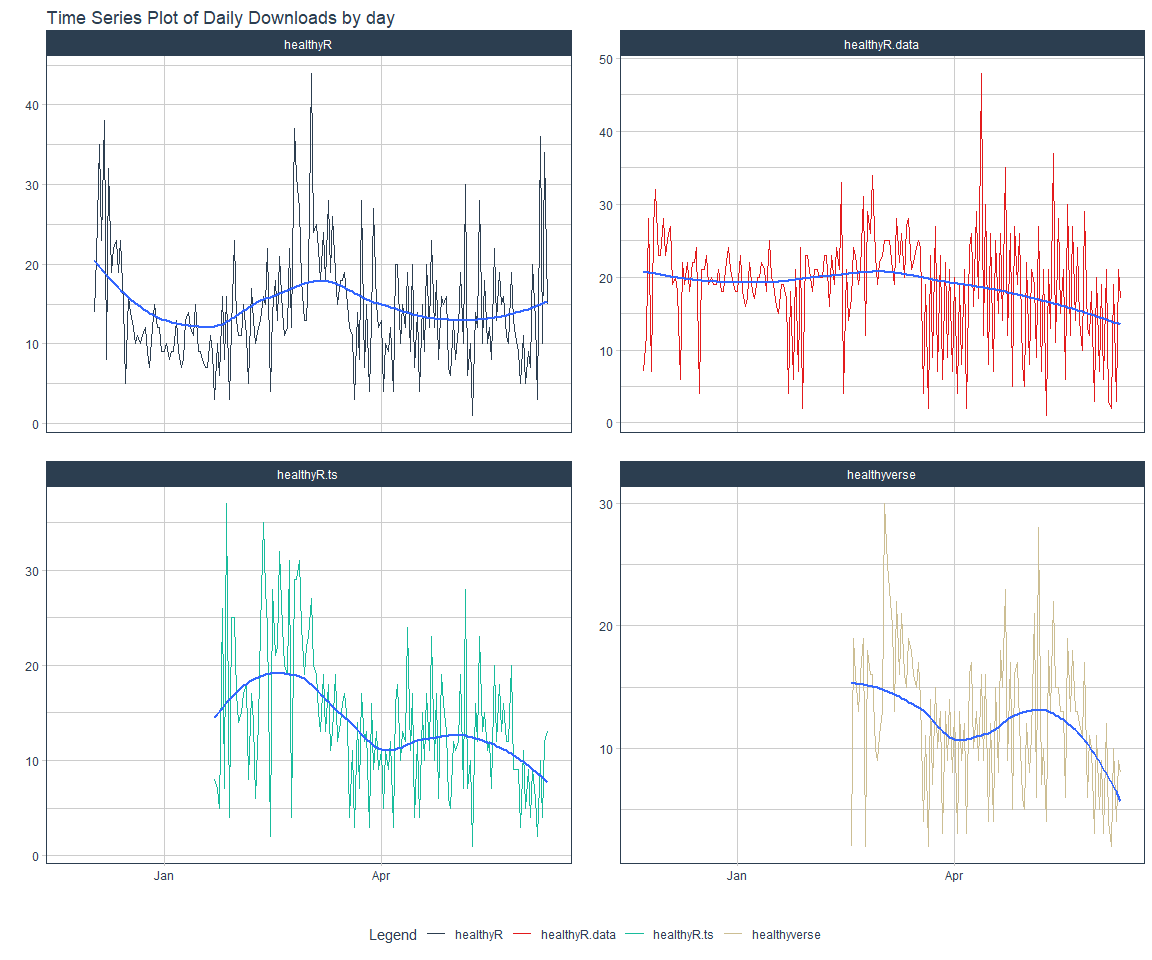
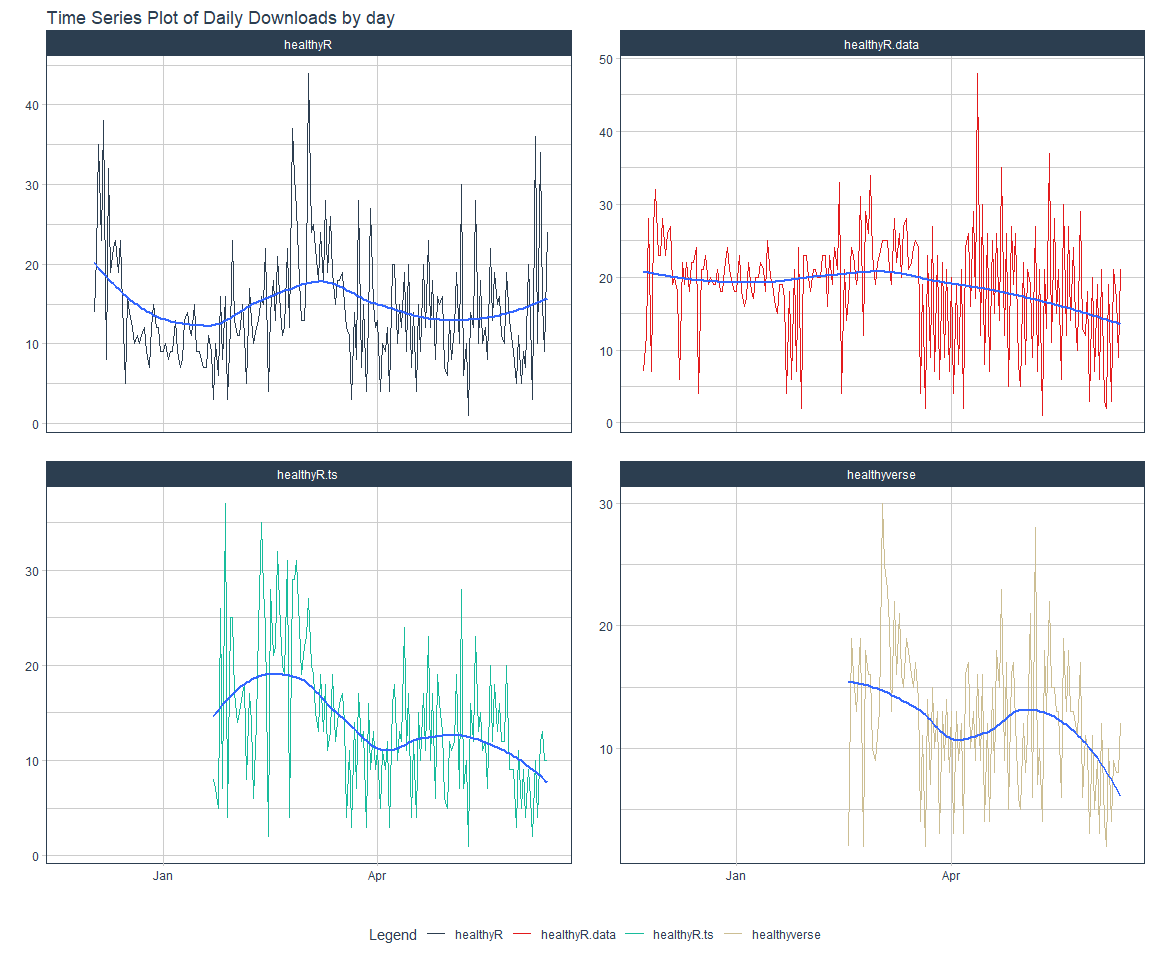
re-run and update stats

diff --git a/README.md b/README.md
@@ -20,7 +20,7 @@ While I analyze `healthyverse` packages here, the functions are written
 in a way that you can analyze any CRAN package with a slight
 modificaiton to the `download_log` function.
 
-This file was last updated on June 11, 2021.
+This file was last updated on June 13, 2021.
 
 # Current Trend
 
@@ -94,12 +94,12 @@ top_n_downloads(total_downloads, 10, r_os) %>%
 
 | OS              | Count |
 |:----------------|------:|
-| NA              |  8468 |
-| mingw32         |   794 |
+| NA              |  8533 |
+| mingw32         |   828 |
 | linux-gnu       |   478 |
 | darwin15.6.0    |    29 |
 | darwin13.4.0    |    19 |
-| darwin17.0      |    11 |
+| darwin17.0      |    15 |
 | linux-gnueabihf |     2 |
 
 ``` r
@@ -129,10 +129,10 @@ top_n_downloads(total_downloads, 4, package) %>%
 
 | Package       | Count |
 |:--------------|------:|
-| healthyR.data |  3725 |
-| healthyR      |  2703 |
-| healthyR.ts   |  1980 |
-| healthyverse  |  1393 |
+| healthyR.data |  3755 |
+| healthyR      |  2736 |
+| healthyR.ts   |  2000 |
+| healthyverse  |  1413 |
 
 # Time Series Plot of each package
 
